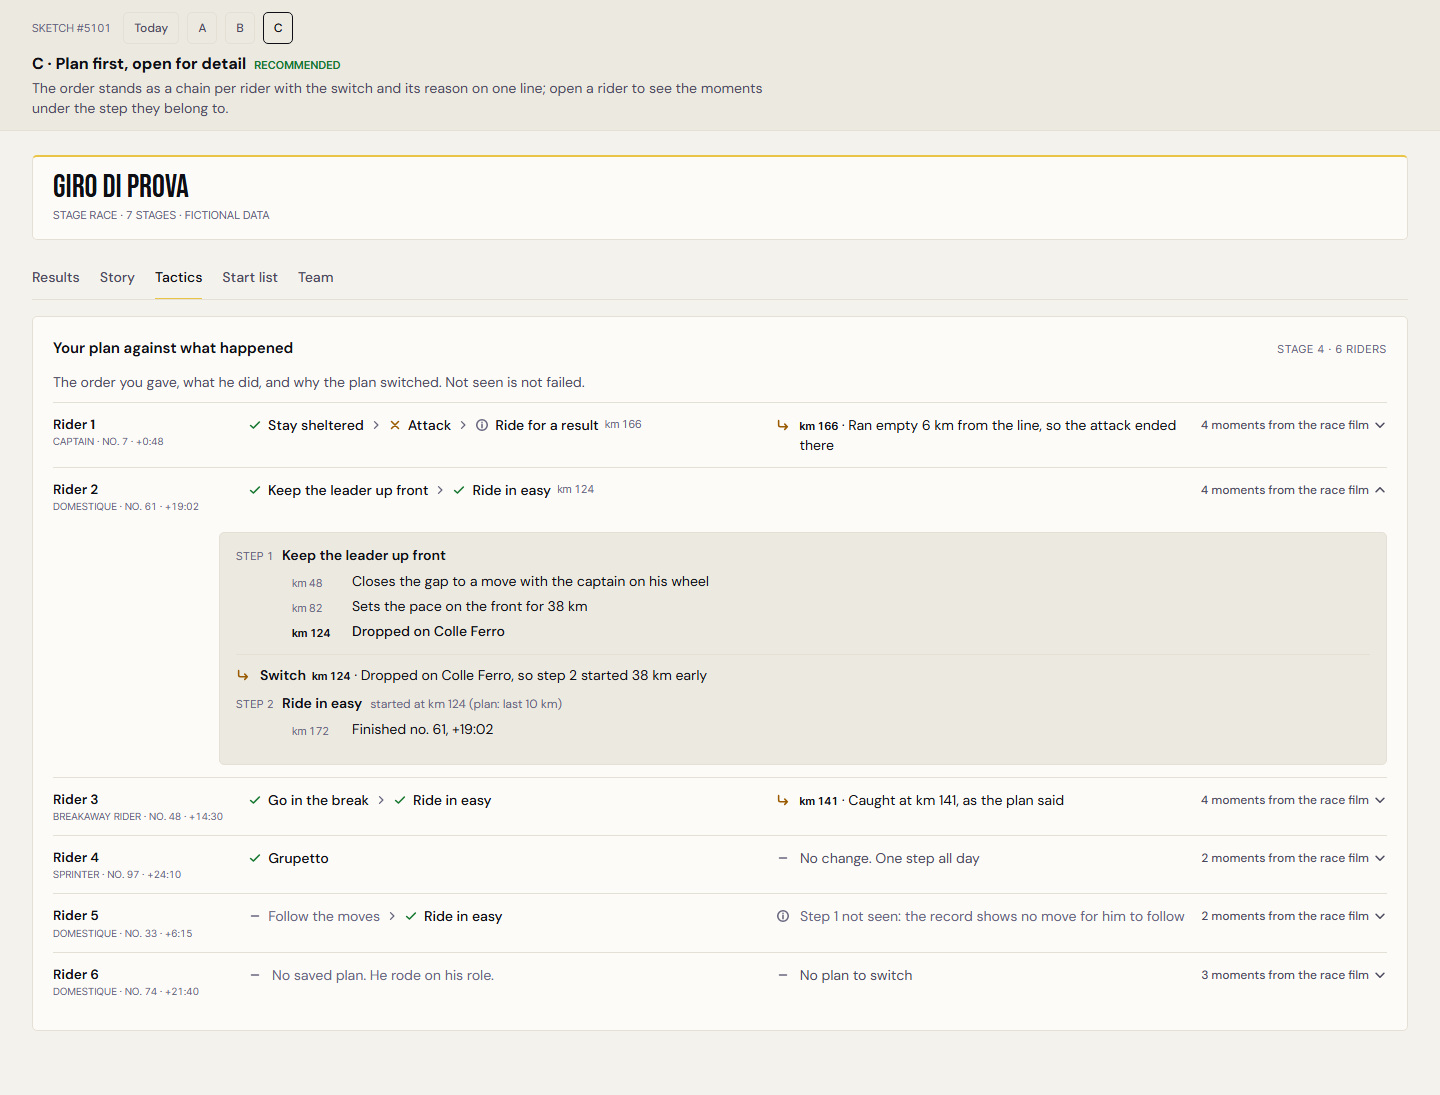
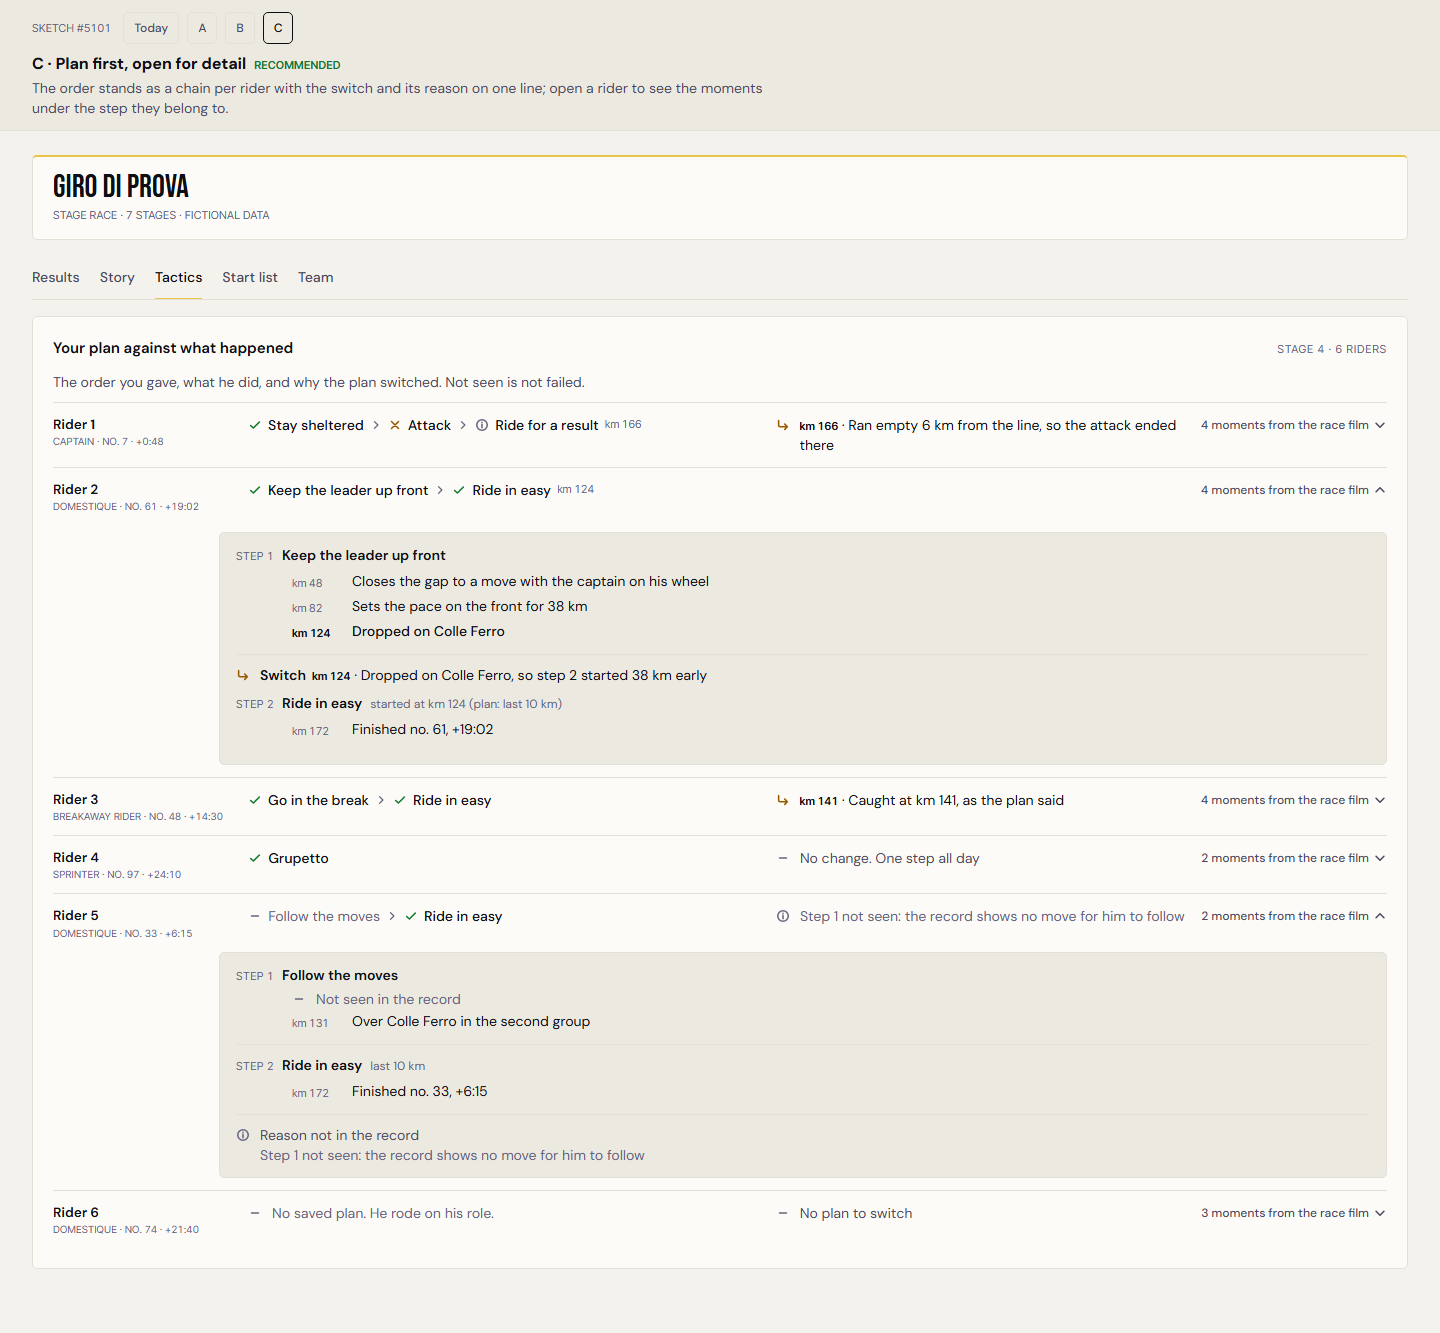
design(race): 5101 skitse C viser oejeblikke ved ikke-set trin (Codex-fund)
Refs #5101

diff --git a/frontend/src/preview/sketches/5101/Sketch.tsx b/frontend/src/preview/sketches/5101/Sketch.tsx
@@ -401,13 +401,16 @@ function StepTimeline({ r, lang }: { r: SketchRider; lang: Lang }) {
               <StepFrom s={s} lang={lang} />
             </div>
             <div className="mt-1 ps-0 md:ps-14">
-              {s.mark === "not_seen" ? (
+              {/* Trinnets status og trinnets oejeblikke er to ting: et trin der ikke ses,
+                  sletter ikke de andre haendelser i samme stykke af ruten. */}
+              {s.mark === "not_seen" && (
                 <span className="flex items-start gap-2 text-sm text-cz-3"><MarkIcon mark="not_seen" />{c.notSeen}</span>
-              ) : evs.length ? (
-                <EventList events={evs} lang={lang} />
-              ) : (
-                <span className="text-sm text-cz-3">{c.notSeen}</span>
               )}
+              {evs.length ? (
+                <EventList events={evs} lang={lang} />
+              ) : s.mark !== "not_seen" ? (
+                <span className="text-sm text-cz-3">{c.noMoments}</span>
+              ) : null}
             </div>
           </li>
         );

diff --git a/frontend/src/preview/sketches/5101/copy.ts b/frontend/src/preview/sketches/5101/copy.ts
@@ -29,6 +29,7 @@ type Copy = {
   planned: (from: string) => string;
   notSeen: string;
   notReached: string;
+  noMoments: string;
   noPlan: string;
   rodeOnRole: string;
   change: string;
@@ -84,6 +85,7 @@ const EN: Copy = {
   planned: (from) => `plan: ${from}`,
   notSeen: "Not seen in the record",
   notReached: "Not reached",
+  noMoments: "No moments of his own in this step",
   noPlan: "No saved plan",
   rodeOnRole: "He rode on his role",
   change: "Switch",
@@ -139,6 +141,7 @@ const DA: Copy = {
   planned: (from) => `plan: ${from}`,
   notSeen: "Ikke set i optegnelsen",
   notReached: "Ikke nået",
+  noMoments: "Ingen egne øjeblikke i dette trin",
   noPlan: "Ingen gemt plan",
   rodeOnRole: "Han kørte på sin rolle",
   change: "Skift",

diff --git a/frontend/src/preview/sketches/5101/main.tsx b/frontend/src/preview/sketches/5101/main.tsx
@@ -16,7 +16,7 @@ const RECOMMENDED: VariantId = "c";
 const variant = (VARIANTS.includes(q.get("v") as VariantId) ? q.get("v") : "c") as VariantId;
 const lang: Lang = q.get("lang") === "en" ? "en" : "da";
 const theme = q.get("theme") === "dark" ? "dark" : null;
-const open = (q.get("open") ?? (variant === "c" ? "r2" : "")).split(",").filter(Boolean);
+const open = (q.get("open") ?? (variant === "c" ? "r2,r5" : "")).split(",").filter(Boolean);
 document.documentElement.lang = lang;
 if (theme) document.documentElement.setAttribute("data-theme", theme);
 
